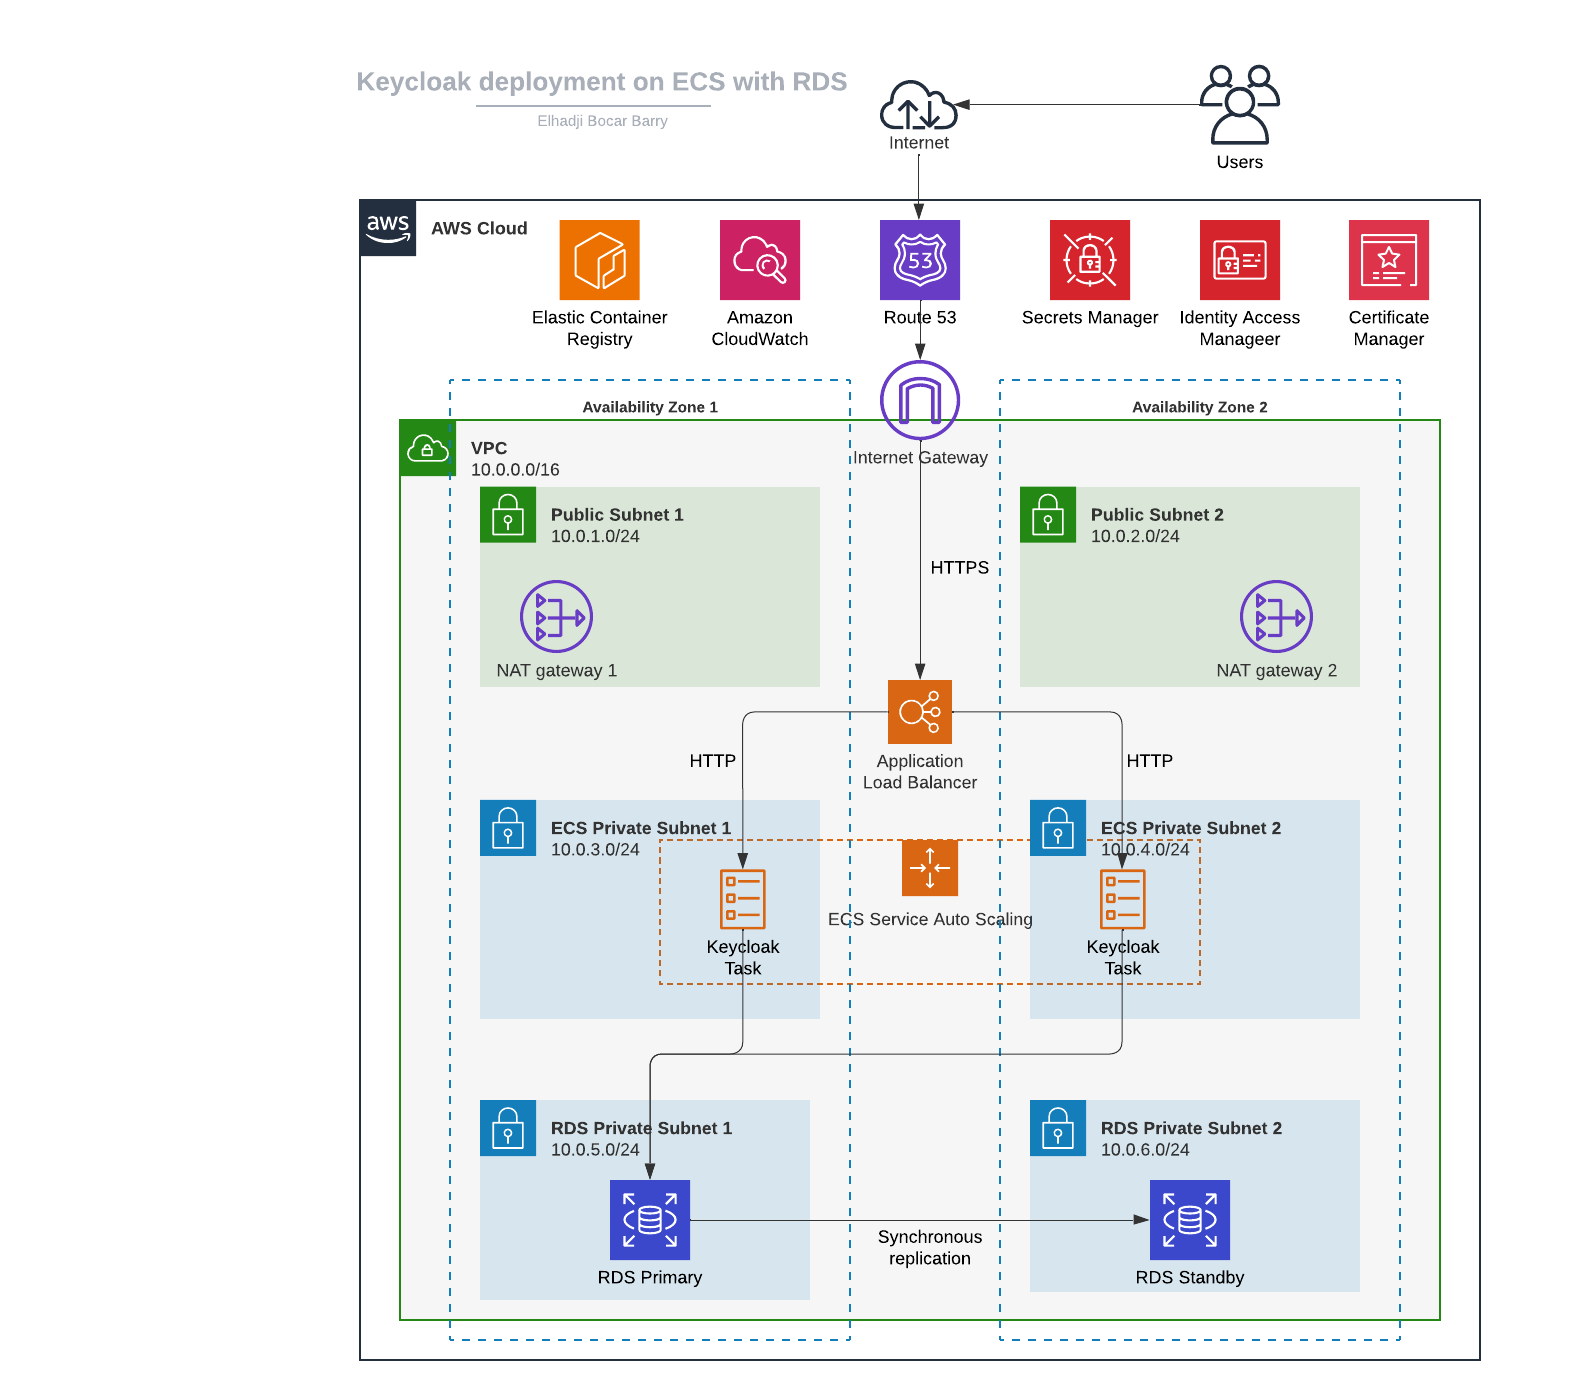
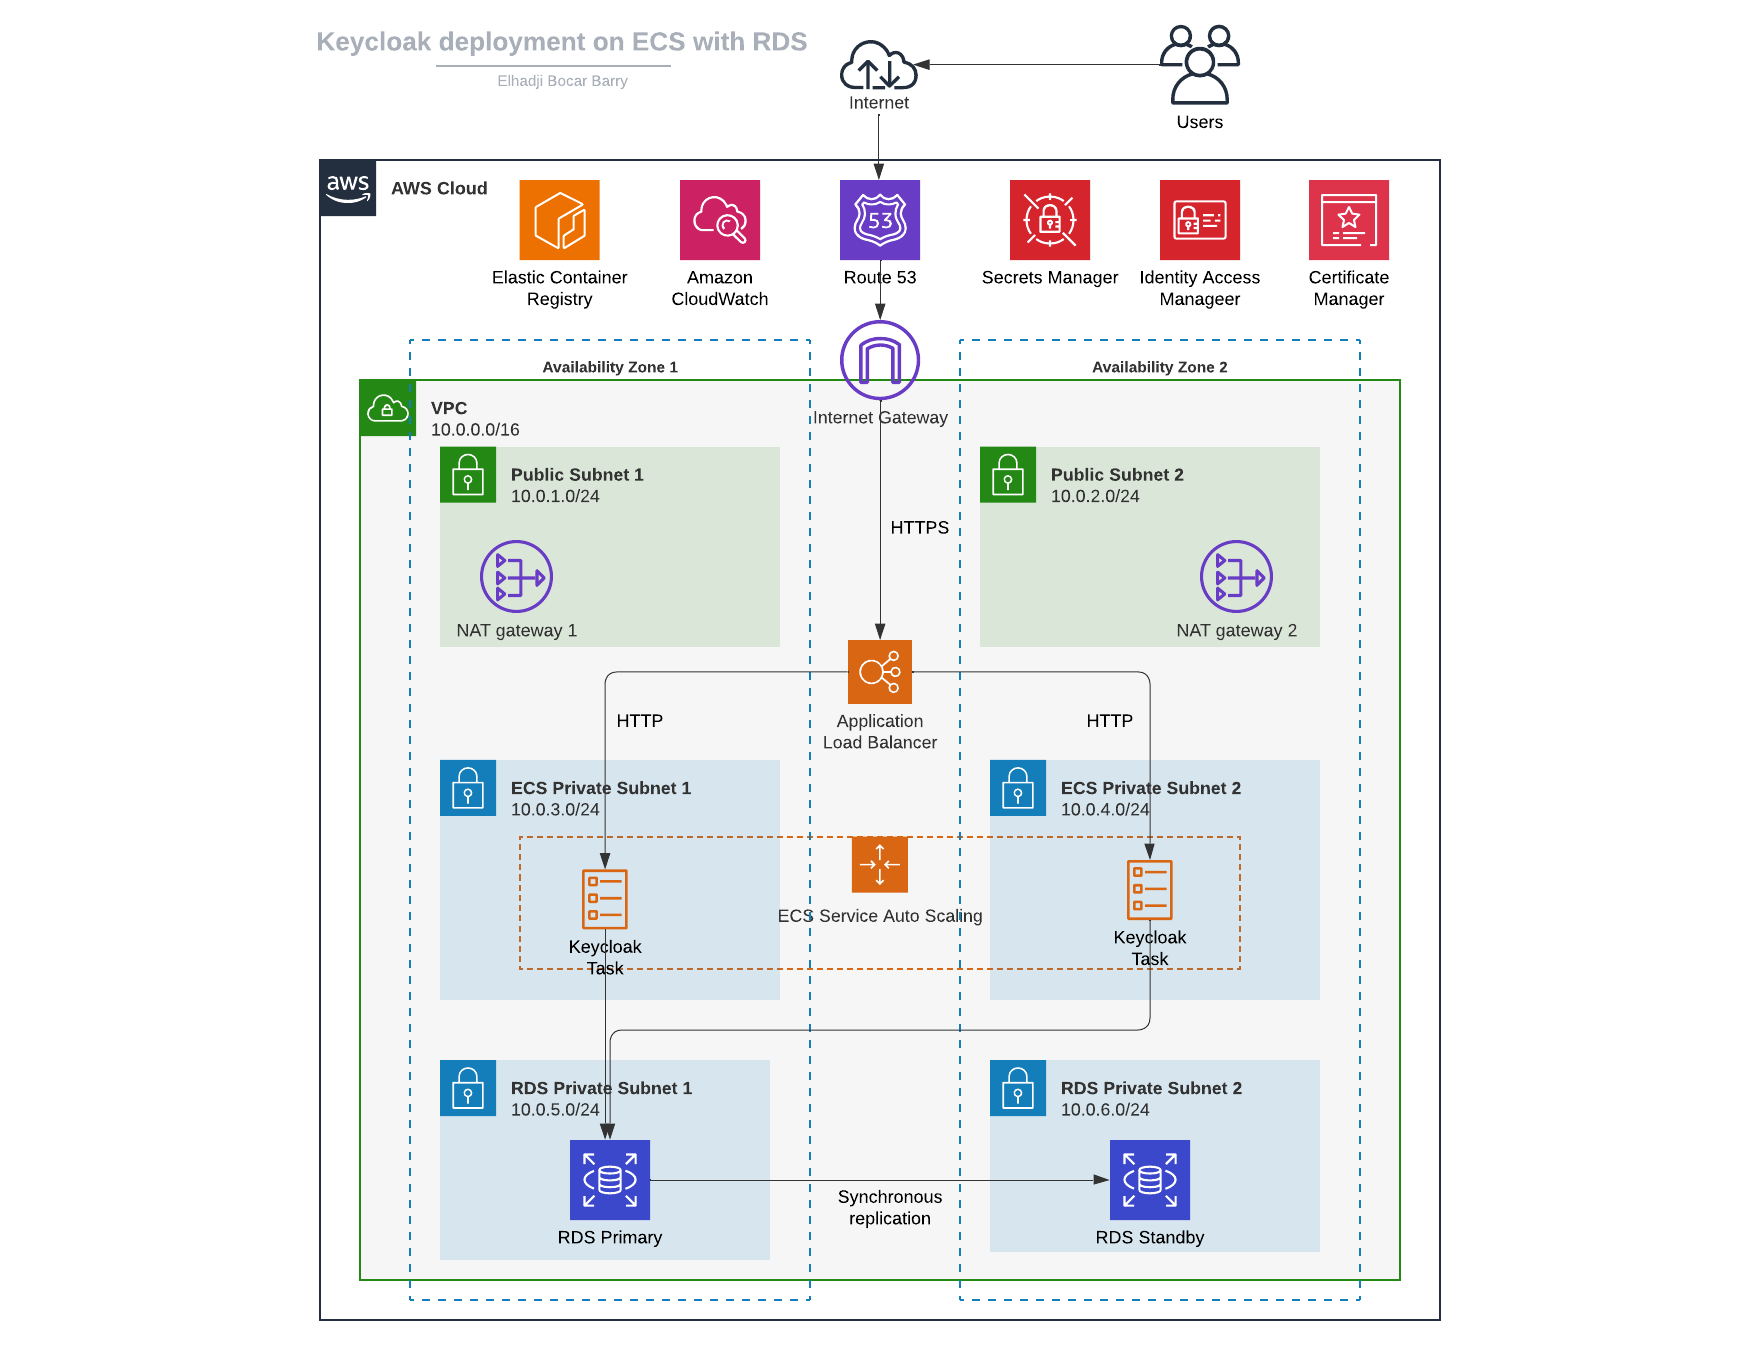
Add readme

diff --git a/README.md b/README.md
@@ -1,4 +1,4 @@
-# How to deploy Keycloak in an AWS ECS cluster
+# How to deploy Keycloak in AWS ECS cluster
 
 Keycloak is an open-source identity and access management solution that offers authentication and authorization capabilities. It provides features such as single sign-on (SSO), user federation, identity brokering and social login. 
 
@@ -10,39 +10,42 @@ The first template prepares the infrastructure for the deployment. It creates a 
 
 The second template deploys an ECS cluster with a Keycloak service running on Fargate, an Auto Scaling group for the ECS tasks, an Application Load Balancer (ALB) and Route 53 DNS configuration.
 
-### Prerequisites
+Here is the architecture diagram of the solution:
+
+![Architecture diagram](diagram/Keyclaok-ECS-RDS.png)
+
+### Prerequisites to deploy this solution
 - AWS account with appropriate permissions. We are using us-east-1 region in this project but you can use your region of choice
 - Basic understanding of AWS services
 - AWS CLI installed and configured. All the command lines will be run from the current directory.
-- AWS CloudFormation
 - Docker
 
 ## 1. Docker image
 
-We will use the [Dockerfile](docker/Dockerfile) to build the Keycloak container image. The image is based on the official Keycloak image and includes the necessary configurations to run the Keycloak server. We will store the image in Amazon Elastic Container Registry (ECR) so that it can be easily pulled during the deployment of the ECS service.
+We will use this [Dockerfile](docker/Dockerfile) to build the Keycloak container image. The image is based on the official Keycloak image and includes the necessary configurations to run the Keycloak server. We will store the image in Amazon Elastic Container Registry (ECR) so that it can be easily pulled during the deployment of the ECS service.
 
-### 1.1 Build the Docker image
-```bash
-docker build -t dev-keycloak ./docker
-```
-
-### 1.2 Push the image to Amazon ECR
+### 1.1 Create the Amazon ECR repository
 ```bash
 aws ecr create-repository --repository-name dev-keycloak --image-scanning-configuration scanOnPush=true --region us-east-1
-aws ecr get-login-password --region us-east-1 | docker login --username AWS --password-stdin <your-account-number>.dkr.ecr.us-east-1.amazonaws.com
+```
+
+### 1.2 Build and tag the Docker image
+```bash
+docker build -t dev-keycloak ./docker
+
 docker tag dev-keycloak:latest <your-account-number>.dkr.ecr.us-east-1.amazonaws.com/dev-keycloak
+```
+
+### 1.3 Login and push the image to Amazon ECR
+```bash
+aws ecr get-login-password --region us-east-1 | docker login --username AWS --password-stdin <your-account-number>.dkr.ecr.us-east-1.amazonaws.com
+
 docker push <your-account-number>.dkr.ecr.us-east-1.amazonaws.com/dev-keycloak
 ```
 
 ## 2. CloudFormation Template to build the infrastructure (VPC, RDS database)
 
-The [keycloak-vpc-rds.yaml](cloudformation/keycloak-vpc-rds.yaml) template creates:
-- ECS tasks execution role
-- A VPC with public and private subnets
-- An Internet Gateway and NAT Gateways
-- Security groups for the ALB, RDS and ECS tasks
-- An RDS PostgreSQL instance with Multi-AZ enabled
-- Secrets in AWS Secrets Manager for the RDS and Keycloak credentials
+We will use the [keycloak-vpc-rds.yaml](cloudformation/keycloak-vpc-rds.yaml) template to create a VPC with public and private subnets, Internet Gateway, NAT Gateways, and an RDS PostgreSQL instance. It will also creates the necessary security groups and Secrets Manager secrets for RDS and Keycloak. This will be used as a foundation for deploying the Keycloak application on ECS.
 
 ### 2.1 Parameters
 
@@ -63,22 +66,22 @@ The template accepts the following parameters:
 | `DBUser`                | The database admin account username (Password will be generated by Secrets Manager)                                    | String | `dbadmin`      |
 | `DBAllocatedStorage`    | The allocated storage size for the RDS instance (in GB)                     | Number | `20`           |
 | `DBInstanceClass`       | The instance class for the RDS instance                                     | String | `db.t3.micro`  |
-| `KeycloakAdminUsername` | The admin username for Keycloak (Password will be generated by Secrets Manager)                                            | String | `admin`        |
-| `DomainName` | The domain name that will be used to create a certificate in ACM for the ALB                                            | String |        |
-| `HostedZoneId` | The ID of the Route 53 Hosted Zone of the domain to create a certificate in ACM                                            | String |       |
+| `KeycloakAdminUsername` | The admin username for Keycloak (Password will be generated by Secrets Manager)                                            | String | `keycloakadmin`        |
+| `DomainName` | The domain name that will be used to create a certificate in AWS Certificate Manager (ACM) for the ALB                                            | String |        |
+| `HostedZoneId` | The ID of the Route 53 Hosted Zone of the domain to create a certificate in AWS Certificate Manager (ACM)                                            | String |       |
 
 ### 2.2 Resources
 The template creates the following resources:
 
-- **ECS Task Execution Role**: IAM role that allows ECS tasks to make API requests to AWS services.
+- **ECS Task Execution Role**: IAM role that allows the ECS tasks to make API requests to AWS services.
 - **VPC**: Virtual network with the specified CIDR block. DNS hostnames and DNS support are enabled.
 - **Internet Gateway**: Internet gateway for internet access to the VPC.
-- **Public Subnet 1**: Public subnet in the first Availability Zone for the the Application Load Balancer (ALB).
+- **Public Subnet 1**: Public subnet in the first Availability Zone. This will used by the Application Load Balancer (ALB) and the NAT Gateway.
 - **Public Subnet 2**: Public subnet in the second Availability Zone for high availability and fault tolerance.
 - **ECS Private Subnet 1**: Private subnet for the ECS tasks in the first Availability Zone.
 - **ECS Private Subnet 2**: Private subnet for the ECS tasks in the second Availability Zone for high availability and fault tolerance.
-- **RDS Private Subnet 1**: Private subnet for RDS in the first Availability Zone.
-- **RDS Private Subnet 2**: Private subnet for RDS in the second Availability Zone for high availability and fault tolerance.
+- **RDS Private Subnet 1**: Private subnet for RDS instance in the first Availability Zone.
+- **RDS Private Subnet 2**: Private subnet for RDS instance in the second Availability Zone for high availability and fault tolerance.
 - **Nat Gateway 1**: Nat Gateway to provide outgoing internet access to the ECS task in the private subnet in the first Availability Zone.
 - **Nat Gateway 2**: Nat Gateway to provide outgoing internet access to the ECS task in the private subnet in the second Availability Zone.
 - **Public Route Table**: Public route table associated with the public subnets to allow traffic to flow to the Internet.
@@ -86,11 +89,11 @@ The template creates the following resources:
 - **ALB Security Group**: Security group used by the Application Load Balancer to allow traffic on port 443 (HTTPS) from anywhere in the internet.
 - **ECS Security Group**: Security group to allow the ALB to communicate with the ECS tasks on port 8080 for Keycloak application and on port 9000 for the Keycloak health check.
 - **RDS Security Group**: Security group to allow the ECS tasks to communicate with the RDS instance on port 5432.
-- **DB Subnet Group**:Subnet group for the RDS instance. The RDS instance will be created in the private subnets in the two Availability Zones (Multi AZ).
+- **DB Subnet Group**:Subnet group for the RDS instance. The RDS instances will be created in the RDS private subnets in the two Availability Zones (Multi AZ).
 - **DB Secret**: Secret in AWS Secrets Manager to store the RDS admin credentials.
 - **Keycloak Secret**: Secret in AWS Secrets Manager to store the Keycloak admin credentials.
 - **RDS Instance**: RDS PostgreSQL instance with Multi-AZ enabled for high availability and fault tolerance.
-- **Certificate**: ACM Public certificate for the specified domain name using DNS validation. This certificate will be used by the Application Load Balancer to enable HTTPS traffic.
+- **Certificate**: AWS Certificate Manager (ACM) public certificate for the specified domain name using DNS validation. This certificate will be used by the Application Load Balancer to enable HTTPS traffic.
 
 ### 2.3 Outputs
 The template provides the following outputs:
@@ -106,32 +109,27 @@ The template provides the following outputs:
 You can deploy this CloudFormation template by using the AWS Management Console or running the following command. Replace "your-domain-name" and "your-hosted-zone-id" with your actual domain name and hosted zone ID and adjust the other parameters with your preference.
 
 ```bash
-aws cloudformation create-stack --stack-name keycloak-vpc-rds --template-body file://cloudformation/keycloak-vpc-rds.yaml --parameters ParameterKey=ProjectName,ParameterValue=keycloak ParameterKey=VpcCIDR,ParameterValue=10.0.0.0/16 ParameterKey=PublicSubnet1CIDR,ParameterValue=10.0.1.0/24 ParameterKey=PublicSubnet2CIDR,ParameterValue=10.0.2.0/24 ParameterKey=ECSPrivateSubnet1CIDR,ParameterValue=10.0.3.0/24 ParameterKey=ECSPrivateSubnet2CIDR,ParameterValue=10.0.4.0/24 ParameterKey=RDSPrivateSubnet1CIDR,ParameterValue=10.0.5.0/24 ParameterKey=RDSPrivateSubnet2CIDR,ParameterValue=10.0.6.0/24 ParameterKey=DBInstanceIdentifier,ParameterValue=keycloakdb-instance ParameterKey=DBName,ParameterValue=keycloakdb ParameterKey=DBUser,ParameterValue=dbadmin ParameterKey=DBAllocatedStorage,ParameterValue=20 ParameterKey=DBInstanceClass,ParameterValue=db.t3.micro ParameterKey=KeycloakAdminUsername,ParameterValue=keycloakadmin ParameterKey=DomainName,ParameterValue=<your-domain-name> ParameterKey=HostedZoneId,ParameterValue=<your-hosted-zone-id>
+aws cloudformation create-stack --stack-name keycloak-vpc-rds --template-body file://cloudformation/keycloak-vpc-rds.yaml --parameters ParameterKey=ProjectName,ParameterValue=keycloak ParameterKey=VpcCIDR,ParameterValue=10.0.0.0/16 ParameterKey=PublicSubnet1CIDR,ParameterValue=10.0.1.0/24 ParameterKey=PublicSubnet2CIDR,ParameterValue=10.0.2.0/24 ParameterKey=ECSPrivateSubnet1CIDR,ParameterValue=10.0.3.0/24 ParameterKey=ECSPrivateSubnet2CIDR,ParameterValue=10.0.4.0/24 ParameterKey=RDSPrivateSubnet1CIDR,ParameterValue=10.0.5.0/24 ParameterKey=RDSPrivateSubnet2CIDR,ParameterValue=10.0.6.0/24 ParameterKey=DBInstanceIdentifier,ParameterValue=keycloakdb-instance ParameterKey=DBName,ParameterValue=keycloakdb ParameterKey=DBUser,ParameterValue=dbadmin ParameterKey=DBAllocatedStorage,ParameterValue=20 ParameterKey=DBInstanceClass,ParameterValue=db.t3.micro ParameterKey=KeycloakAdminUsername,ParameterValue=keycloakadmin ParameterKey=DomainName,ParameterValue=<your-domain-name> ParameterKey=HostedZoneId,ParameterValue=<your-hosted-zone-id> --capabilities CAPABILITY_NAMED_IAM
 ```
 
 ## 3. CloudFormation Templates to deploy the Keycloak service in ECS
 
-The template [keycloak-ecs-alb.yaml](cloudformation/keycloak-ecs-alb.yaml) creates:
-- An ECS cluster with a Keycloak service running on Fargate
-- An Application Load Balancer (ALB) with an HTTPS listener
-- A Route 53 alias record pointing to the ALB
-- An Application Auto Scaling group for the Keycloak service
+We will use the [keycloak-ecs-alb.yaml](cloudformation/keycloak-ecs-alb.yaml) template to create an ECS cluster with a Keycloak service running on Fargate, an Application Load Balancer, and a Route 53 alias record for the domain name. The template also creates an Auto Scaling Group to scale the Keycloak service based on CPU utilization. The Keycloak service is exposed through the Application Load Balancer with HTTPS listener. SSL termination is done on the Load Balancer and we use HTTP between the Load Balancer and the ECS task.
 
 ### 3.1 Parameters
 
 The template accepts the following parameters:
-## Parameters
 
 | Parameter Name          | Description                                           | Type                         |
 |-------------------------|-------------------------------------------------------|------------------------------|
 | `VPCId`                 | The ID of the VPC                                     | `AWS::EC2::VPC::Id`          |
-| `PublicSubnetIds`       | The list of Public Subnet IDs for the Load Balancer   | `List<AWS::EC2::Subnet::Id>` |
-| `ECSPrivateSubnetIds`   | The list of Private Subnet IDs for the ECS tasks      | `List<AWS::EC2::Subnet::Id>` |
+| `PublicSubnetIds`       | The list of Public Subnet IDs to use for the Load Balancer   | `List<AWS::EC2::Subnet::Id>` |
+| `ECSPrivateSubnetIds`   | The list of Private Subnet IDs to use for the ECS tasks      | `List<AWS::EC2::Subnet::Id>` |
 | `ALBSecurityGroupId`    | The ID of the Load Balancer Security Group            | `AWS::EC2::SecurityGroup::Id`|
 | `ECSSecurityGroupId`    | The ID of the ECS task Security Group                 | `AWS::EC2::SecurityGroup::Id`|
 | `HostedZoneId`          | The ID of the Route 53 Hosted Zone                    | `String`                     |
-| `DomainName`            | The domain name for the alias record                  | `String`                     |
-| `RDSInstanceEndpoint`            | he RDS instance endpoint for Keycloak database                 | `String`                     |
+| `DomainName`            | The domain name that will be used to access the Keycloak application                 | `String`                     |
+| `RDSInstanceEndpoint`            | The RDS instance endpoint for Keycloak database                 | `String`                     |
 | `DBSecretArn`            | The ARN of the secret in AWS Secrets Manager that contains the database credentials                 | `String`                     |
 | `KeycloakSecretArn`            | The ARN of the secret in AWS Secrets Manager that contains the Keycloak credentials                 | `String`                     |
 | `CertificateArn`            | The ARN of the SSL/TLS certificate in AWS Certificate Manager (ACM)                 | `String`                     |
@@ -143,11 +141,11 @@ The template creates the following resources:
 - **ECS Cluster**: ECS cluster to run the Keycloak service on Fargate.
 - **Keycloak Task Definition**: Defines the task definition for the Keycloak service, including container configurations and environment variables.
 - **Keycloak Service**: ECS service to run the Keycloak tasks on Fargate.
-- **Keycloak Scalable Target**: Configures auto-scaling for the Keycloak service based on CPU utilization. The minimum capacity is 1 task and the maximum capacity is 5 tasks.
-- **Keycloak Load Balancer**: Application Load Balancer (ALB) to distribute traffic to the Keycloak service.
+- **Keycloak Scalable Target**: Configures auto-scaling for the Keycloak service based on CPU utilization. The minimum capacity is set to 1 task and the maximum capacity 5 tasks.
+- **Keycloak Load Balancer**: Application Load Balancer (ALB) to distribute traffic to the Keycloak tasks.
 - **Keycloak Target Group**: Target group for the Keycloak service, used by the ALB to route traffic to the ECS tasks.
 - **Keycloak Listener**: ALB listener to listens on port 443 (HTTPS) and forward traffic to the Keycloak target group.
-- **Route 53 Alias Record**: Route 53 alias record to point to the ALB, enabling access to the Keycloak application via a custom domain with HTTPS.
+- **Route 53 Alias Record**: Route 53 alias record to point to the ALB, enabling access to the Keycloak application via the domain name.
 
 ### 3.3 Outputs
 The template provides the following outputs:
@@ -164,6 +162,9 @@ aws cloudformation create-stack --stack-name keycloak-ecs-alb --template-body fi
 ```
 
 ## 4. Testing the Application
-After the stack is created, you can access the web application using your domain name with HTTPS which is provided in the stack outputs. You can just open the URL with your browser. You should see the Keycloak administration console login page. Retrieve the admin credentials from the secret KeycloakSecret in AWS Secrets Manager. After a successful login, you should see the following Keycloak Welcome page. Navigate in the application to create users, groups, roles...
+After the stack is created, you can access the web application by using your domain name with HTTPS which is provided in the stack outputs. You can just open the URL with your browser. You should see the Keycloak administration console login page. Retrieve the admin credentials from the secret KeycloakSecret in AWS Secrets Manager. After a successful login, you should see the following Keycloak Welcome page. Navigate in the application to create users, groups, roles...
 
-To go further, you can create a web application that will authenticate the users with Keycloak end send requests to a REST API. The API will use Keycloak to validate the security tokens and authorize/deny the user request.
+![Keycloak Welcome page](diagram/Keycloak-Welcome.png)
+
+
+To go further, you can create a web application that will authenticate the users with Keycloak and send requests to a REST API. The API will then use Keycloak to validate the security tokens and authorize/deny the user request.
